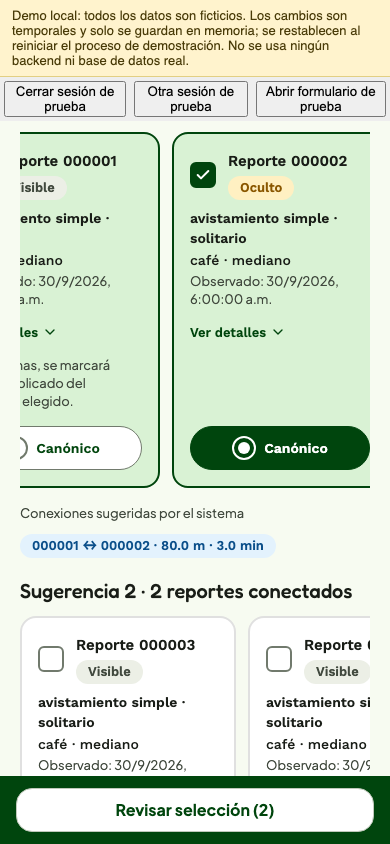
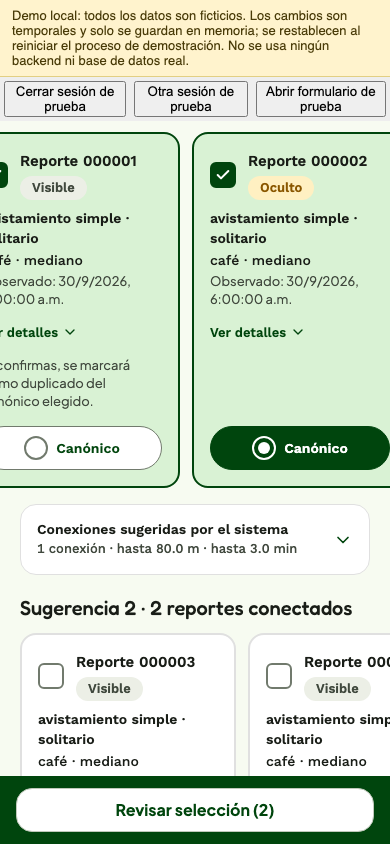
style(design): TD-134 Duplicados: conexiones sugeridas como resumen desplegable y tabla alineada
Una línea con N conexiones, distancia y tiempo máximos que se despliega a una tabla ordenada por cercanía. Llaves linksSummary_one y linksSummary_other en es y en. Icono up en Icon. TASTE.md con las reglas 22 a 25.

diff --git a/screens/DuplicateManagementScreen.js b/screens/DuplicateManagementScreen.js
@@ -54,6 +54,30 @@ function ReportCard({report,selected,canonical,disabled,onToggle,onCanonical,t})
     </Pressable>
   </View>;
 }
+/** System-suggested connections between reports: one summary line that unfolds into an aligned table, nearest first. */
+function LinkList({edges,t}) {
+  const [open,setOpen]=useState(false);
+  if(!edges.length)return null;
+  const sorted=[...edges].sort((x,y)=>(x.distance_meters??Infinity)-(y.distance_meters??Infinity));
+  const max=(key)=>Math.max(0,...edges.map((edge)=>Number.isFinite(edge[key])?edge[key]:0));
+  return <View style={styles.links}>
+    <Pressable accessibilityRole="button" accessibilityState={{expanded:open}} accessibilityLabel={`${t('duplicates.links')}: ${t('duplicates.linksSummary',{count:edges.length,meters:max('distance_meters').toFixed(1),minutes:max('minutes_apart').toFixed(1)})}`}
+      onPress={()=>setOpen((value)=>!value)} style={styles.linksHead}>
+      <View style={styles.linksText}>
+        <Text style={styles.linksTitle}>{t('duplicates.links')}</Text>
+        <Text style={styles.linksSummary}>{t('duplicates.linksSummary',{count:edges.length,meters:max('distance_meters').toFixed(1),minutes:max('minutes_apart').toFixed(1)})}</Text>
+      </View>
+      <Icon name={open?'up':'down'} size={20} color={colors.primary}/>
+    </Pressable>
+    <View style={[styles.linksBody,!open&&styles.hidden]}>
+      {sorted.map((edge,i)=><View key={edge.id} style={[styles.linkRow,i>0&&styles.linkRowDivider]}>
+        <Text style={styles.linkPair}>{short(edge.report_a)} ↔ {short(edge.report_b)}</Text>
+        <Text style={styles.linkValue}>{Number.isFinite(edge.distance_meters)?`${edge.distance_meters.toFixed(1)} m`:''}</Text>
+        <Text style={styles.linkValue}>{Number.isFinite(edge.minutes_apart)?`${edge.minutes_apart.toFixed(1)} min`:''}</Text>
+      </View>)}
+    </View>
+  </View>;
+}
 function Note({value,onChange,label,error,disabled,t,inputRef,testID,tone}) {
   return <AppTextField tone={tone} ref={inputRef} testID={testID} label={label} accessibilityHint={errorText(error,t)} aria-invalid={Boolean(error)}
     value={value} onChangeText={onChange} editable={!disabled} multiline error={errorText(error,t)||undefined} helper={t('duplicates.noteHint')}/>;
@@ -139,8 +163,7 @@ export default function DuplicateManagementScreen({accessToken,onBack,api}) {
                 {component.reports.map((report)=><ReportCard key={report.id} report={report} selected={form.ids.includes(report.id)} canonical={form.canonicalId===report.id}
                   disabled={disabled} onToggle={()=>form.toggleReport(report.id)} onCanonical={()=>form.chooseCanonical(report.id)} t={t}/>)}
               </ScrollView>
-              <Text style={styles.caption}>{t('duplicates.links')}</Text>
-              <View style={styles.links}>{form.snapshot.candidates.filter((edge)=>component.reports.some((r)=>r.id===edge.report_a)&&component.reports.some((r)=>r.id===edge.report_b)).map((edge)=><Chip key={edge.id} tone="info" label={`${short(edge.report_a)} ↔ ${short(edge.report_b)}${Number.isFinite(edge.distance_meters)?` · ${edge.distance_meters.toFixed(1)} m`:''}${Number.isFinite(edge.minutes_apart)?` · ${edge.minutes_apart.toFixed(1)} min`:''}`}/>)}</View>
+              <LinkList t={t} edges={form.snapshot.candidates.filter((edge)=>component.reports.some((r)=>r.id===edge.report_a)&&component.reports.some((r)=>r.id===edge.report_b))}/>
             </View>;})}
             <Pager page={currentSuggestionPage} pageCount={suggestionPages} onChange={setSuggestionPage} previousLabel={t('duplicates.pagePrev')} nextLabel={t('duplicates.pageNext')} pageLabel={pageLabel(currentSuggestionPage,suggestionPages)}/>
             <View testID="duplicate-selection-summary" onLayout={(event)=>{summaryY.current=event.nativeEvent.layout.y;}} style={styles.decision}>
@@ -223,7 +246,12 @@ const styles=StyleSheet.create({
   canonicalHit:{flexDirection:'row',alignItems:'center',justifyContent:'center',gap:spacing.sm,minHeight:layout.minTouch,borderRadius:radius.pill,borderWidth:1,borderColor:colors.outline,backgroundColor:colors.surface},canonicalChosenHit:{backgroundColor:colors.primary,borderColor:colors.primary},
   radio:{width:24,height:24,borderRadius:12,borderWidth:2,borderColor:colors.outline,alignItems:'center',justifyContent:'center',backgroundColor:colors.surface},radioOn:{borderColor:colors.onPrimary,backgroundColor:colors.primary},radioDot:{width:12,height:12,borderRadius:6,backgroundColor:colors.onPrimary},
   canonicalText:{fontFamily:fontFamily.label,fontSize:14,color:colors.primary},canonicalTextOn:{color:colors.onPrimary},dim:{opacity:0.5},pressed:{opacity:0.7},
-  links:{flexDirection:'row',flexWrap:'wrap',gap:spacing.sm},
+  links:{backgroundColor:colors.surface,borderRadius:radius.lg,borderWidth:1,borderColor:colors.border,overflow:'hidden'},
+  linksHead:{flexDirection:'row',alignItems:'center',gap:spacing.md,padding:spacing.lg,minHeight:layout.minTouch},linksText:{flex:1,gap:2},
+  linksTitle:{fontFamily:fontFamily.label,fontSize:14,color:colors.ink},linksSummary:{fontFamily:fontFamily.labelMedium,fontVariant:['tabular-nums'],fontSize:13,lineHeight:19,color:colors.inkMuted},
+  linksBody:{borderTopWidth:1,borderTopColor:colors.border,paddingHorizontal:spacing.lg},
+  linkRow:{flexDirection:'row',alignItems:'center',gap:spacing.md,paddingVertical:spacing.md},linkRowDivider:{borderTopWidth:1,borderTopColor:colors.border},
+  linkPair:{flex:1,fontFamily:fontFamily.labelMedium,fontVariant:['tabular-nums'],fontSize:13,color:colors.ink},linkValue:{minWidth:64,textAlign:'right',fontFamily:fontFamily.labelMedium,fontVariant:['tabular-nums'],fontSize:13,color:colors.primary},
   decision:{backgroundColor:colors.primary,borderRadius:radius.lg,padding:spacing.xl,gap:spacing.lg},
   decisionTitle:{fontFamily:fontFamily.display,fontSize:26,lineHeight:32,color:colors.onPrimary},decisionText:{...type.body,fontSize:14,lineHeight:21,color:colors.onForest},
   darkError:{...type.caption,fontSize:14,color:'#ffb4ab'},errorText:{...type.caption,fontSize:13,color:colors.danger},onGreenError:{...type.caption,fontSize:13,color:'#ffb4ab'},

diff --git a/components/ui/Icon.js b/components/ui/Icon.js
@@ -2,7 +2,7 @@
  * @module components/ui/Icon
  * Single place that maps semantic icon names to lucide glyphs, so screens never import the icon library.
  */
-import { AlertTriangle, Camera, Check, ChevronDown, ChevronLeft, ChevronRight, Copy, Flag, Gauge, Info, LogOut, MapPin, PawPrint, RefreshCw, Settings, ShieldCheck, X } from 'lucide-react-native';
+import { AlertTriangle, Camera, Check, ChevronDown, ChevronLeft, ChevronRight, ChevronUp, Copy, Flag, Gauge, Info, LogOut, MapPin, PawPrint, RefreshCw, Settings, ShieldCheck, X } from 'lucide-react-native';
 import { colors } from '../../theme/index.js';
 
 const glyphs = {
@@ -10,6 +10,7 @@ const glyphs = {
   back: ChevronLeft,
   forward: ChevronRight,
   down: ChevronDown,
+  up: ChevronUp,
   check: Check,
   alert: AlertTriangle,
   info: Info,

diff --git a/docs/redesign/capture/after-duplicates-many.spec.js b/docs/redesign/capture/after-duplicates-many.spec.js
@@ -16,4 +16,9 @@ test('many', async ({ page }) => {
   await page.getByText('Página 1 de 3').scrollIntoViewIfNeeded();
   await page.waitForTimeout(200);
   await page.screenshot({ path: 'docs/redesign/after/web/es_duplicates_many_pager.png' });
+  await page.getByRole('button', { name: /Conexiones sugeridas/ }).first().scrollIntoViewIfNeeded();
+  await page.screenshot({ path: 'docs/redesign/after/web/es_duplicates_links_closed.png' });
+  await page.getByRole('button', { name: /Conexiones sugeridas/ }).first().click();
+  await page.waitForTimeout(200);
+  await page.screenshot({ path: 'docs/redesign/after/web/es_duplicates_links_open.png' });
 });

diff --git a/docs/redesign/TASTE.md b/docs/redesign/TASTE.md
@@ -76,6 +76,21 @@ Segundo intento (aprobado: "perfecto"), commit `48c404c`:
 20. **Pasos reales = ruta con puntos y línea;** pasos inexistentes no se numeran.
 21. **La barra inferior verde lleva la acción principal de la pantalla** y cambia de texto según el estado, en lugar de repetir botones dentro del contenido.
 
+## Duplicados (aprobada, commits `1d5fc62` a `3560da5` y el de conexiones)
+
+- **Comparar es mejor lado a lado que apilado:** cada sugerencia es una tira horizontal deslizable de tarjetas con los mismos datos en el mismo lugar; la tira llega al borde de la pantalla para que se note que se desliza.
+- **Un control debe decir lo que hace:** el círculo suelto de "canónico" se rechazó; ahora es una píldora con la palabra "Canónico" que se llena al elegirla.
+- **Paginar listas largas** (3 por página) con el `Pager` reutilizable; la selección persiste entre páginas.
+- **Datos técnicos en bruto (pares de ID con distancia y tiempo) se resumen en una línea** ("N conexiones · hasta X m · hasta Y min") que se despliega a una tabla alineada, ordenada de la más cercana a la más lejana. Con plural correcto (`_one` / `_other`).
+- **Panel de decisión verde oscuro con el único botón amarillo.**
+
+### Reglas añadidas (22 a 25)
+
+22. **Si la tarea es comparar, las opciones van en horizontal y alineadas;** si es leer, en vertical.
+23. **Nada de iconos o controles sin palabra** cuando su función no es obvia (el radio solo).
+24. **Los datos crudos se resumen y se pliegan;** el detalle se despliega a demanda, en columnas alineadas con cifras tabulares.
+25. **Las cantidades llevan plural correcto** ("1 conexión", "2 conexiones") con las formas `_one` y `_other` de i18n.
+
 ## Cómo se trabaja con las skills
 
 `frontend-design` ayudó más que el resto: obliga a planear con una paleta, roles de tipografía y un wireframe, a revisar el plan contra los defaults de plantilla y a gastar el riesgo estético en un solo lugar. `design-taste-frontend` sirve como lista de verificación (contraste, estados, etiquetas arriba del campo). `mobile-redesign-screen` da el método (auditar, proponer, arreglar). Para cada pantalla nueva: invocar `frontend-design` primero para el plan.
